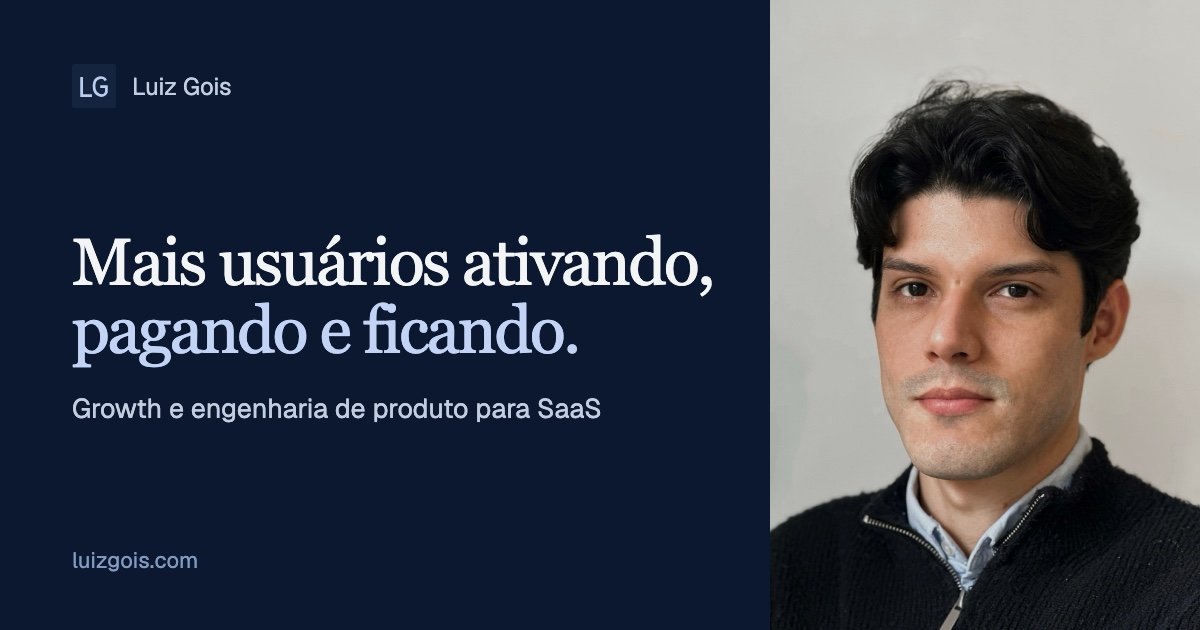
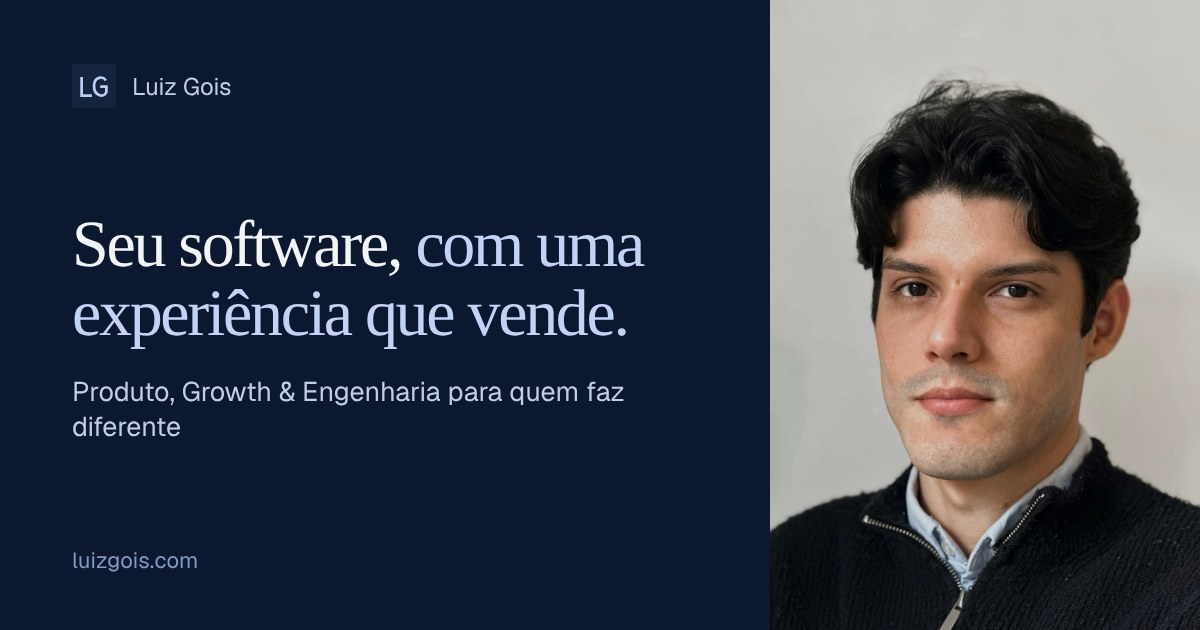
Junta o problema e o que você compra, simplifica as animações do processo, mostra o preço no contato e refaz a imagem de compartilhamento
Claude-Session: https://claude.ai/code/session_012LJywhM1xmxqw45rby5mtb

Changed region(s): [[0.0617, 0.3317, 0.6167, 0.6937], [0.0617, 0.8746, 0.1542, 0.9048], [0.1233, 0.1206, 0.185, 0.1508]]

diff --git a/index.html b/index.html
@@ -87,10 +87,9 @@
         <h2 id="pain-title">Construir ficou fácil. <em>Vender continua difícil.</em></h2>
       </div>
       <div class="wrap pain-copy">
-        <p>Hoje, qualquer pessoa coloca um site ou um software no ar em poucos dias. A IA escreve o código, monta a tela e o texto.</p>
-        <p>Mas quem chega não entende o que você faz. Quem entra não encontra valor. Quem usa uma vez não volta.</p>
+        <p>Qualquer pessoa coloca um software no ar em poucos dias. Mas quem chega não entende, quem entra não encontra valor e quem usa uma vez não volta.</p>
         <p>Aí começam as tentativas: troca o botão, reescreve a página, lança mais uma função. E o número não sai do lugar.</p>
-        <p class="pain-close">O problema quase nunca é a tela. É a experiência entre o primeiro clique e a renovação.</p>
+        <p class="pain-close">Você não está pagando por código. Está comprando o tempo dessas tentativas.</p>
       </div>
     </section>
 
@@ -137,24 +136,7 @@
       </div>
     </section>
 
-    <!-- 4 · O que você compra -->
-    <section class="value section" id="por-que" aria-labelledby="value-title">
-      <div class="wrap center-head">
-        <p class="eyebrow">O que você compra</p>
-        <h2 id="value-title">Você não está pagando por código. <em>Está comprando tempo.</em></h2>
-      </div>
-      <div class="wrap value-wrap">
-        <dl class="value-list">
-          <div><dt>Tempo</dt><dd>Menos tentativas para descobrir o que funciona.</dd></div>
-          <div><dt>Velocidade</dt><dd>Algo no ar cedo, medido, e o próximo passo.</dd></div>
-          <div><dt>Clareza</dt><dd>Você vê como seu cliente usa o produto, com dados, não com palpite.</dd></div>
-          <div><dt>Qualidade</dt><dd>Engenharia de verdade, sem remendo para corrigir depois.</dd></div>
-          <div><dt>Personalidade</dt><dd>Um produto que soa como a sua empresa, não como mais um site feito por IA.</dd></div>
-        </dl>
-      </div>
-    </section>
-
-    <!-- 5 · Como eu trabalho -->
+    <!-- 4 · Como eu trabalho -->
     <section class="process section" id="como-trabalho" aria-labelledby="process-title">
       <div class="wrap center-head">
         <p class="eyebrow">Como eu trabalho</p>
@@ -168,7 +150,7 @@
         <ol class="process-steps">
           <li class="step" data-step="1">
             <figure class="step-visual" data-scene="1" aria-hidden="true">
-              <svg class="scene" viewBox="0 0 520 420" data-motion data-still="0.6"><rect class="mv-soft" x="40" y="40" width="200" height="110" rx="6"/><text class="mv-text" x="60" y="74">produto</text><line class="mv-bar" x1="60" y1="102" x2="190" y2="102"/><line class="mv-bar" x1="60" y1="122" x2="156" y2="122"/><rect class="mv-accent-stroke" x="40" y="40" width="200" height="110" rx="6" opacity="0"><animate attributeName="opacity" values="0;1;1;0;0" keyTimes="0;0.01;0.15;0.20;1" dur="8s" begin="0s" repeatCount="indefinite"/></rect><rect class="mv-soft" x="280" y="40" width="200" height="110" rx="6"/><text class="mv-text" x="300" y="74">operação</text><line class="mv-bar" x1="300" y1="102" x2="430" y2="102"/><line class="mv-bar" x1="300" y1="122" x2="396" y2="122"/><rect class="mv-accent-stroke" x="280" y="40" width="200" height="110" rx="6" opacity="0"><animate attributeName="opacity" values="0;1;1;0;0" keyTimes="0;0.26;0.40;0.45;1" dur="8s" begin="0s" repeatCount="indefinite"/></rect><rect class="mv-soft" x="40" y="250" width="200" height="110" rx="6"/><text class="mv-text" x="60" y="284">objetivos</text><line class="mv-bar" x1="60" y1="312" x2="190" y2="312"/><line class="mv-bar" x1="60" y1="332" x2="156" y2="332"/><rect class="mv-accent-stroke" x="40" y="250" width="200" height="110" rx="6" opacity="0"><animate attributeName="opacity" values="0;1;1;0;0" keyTimes="0;0.51;0.65;0.70;1" dur="8s" begin="0s" repeatCount="indefinite"/></rect><rect class="mv-soft" x="280" y="250" width="200" height="110" rx="6"/><text class="mv-text" x="300" y="284">orçamento</text><line class="mv-bar" x1="300" y1="312" x2="430" y2="312"/><line class="mv-bar" x1="300" y1="332" x2="396" y2="332"/><rect class="mv-accent-stroke" x="280" y="250" width="200" height="110" rx="6" opacity="0"><animate attributeName="opacity" values="0;1;1;0;0" keyTimes="0;0.76;0.90;0.95;1" dur="8s" begin="0s" repeatCount="indefinite"/></rect><rect class="mv-soft" x="200" y="178" width="120" height="44" rx="22"/><circle class="mv-accent" cx="242" cy="200" r="4"><animate attributeName="opacity" values=".25;1;.25" keyTimes="0;.5;1" dur="1.2s" begin="0.0s" repeatCount="indefinite"/></circle><circle class="mv-accent" cx="260" cy="200" r="4"><animate attributeName="opacity" values=".25;1;.25" keyTimes="0;.5;1" dur="1.2s" begin="0.2s" repeatCount="indefinite"/></circle><circle class="mv-accent" cx="278" cy="200" r="4"><animate attributeName="opacity" values=".25;1;.25" keyTimes="0;.5;1" dur="1.2s" begin="0.4s" repeatCount="indefinite"/></circle><text class="mv-muted" x="260" y="244" text-anchor="middle">conversa</text><g class="mv-lens"><circle cx="0" cy="0" r="30"/><line x1="21" y1="21" x2="40" y2="40"/><animateMotion dur="8s" repeatCount="indefinite" path="M140 95 L380 95 L380 305 L140 305 Z" keyPoints="0;0;.2667;.2667;.5;.5;.7667;.7667;1" keyTimes="0;.15;.25;.4;.5;.65;.75;.9;1" calcMode="linear"/></g></svg>
+              <svg class="scene" viewBox="0 0 520 420" data-motion data-still="0.6"><rect class="mv-soft" x="40" y="40" width="200" height="110" rx="6"/><text class="mv-text" x="60" y="74">produto</text><line class="mv-bar" x1="60" y1="102" x2="190" y2="102"/><line class="mv-bar" x1="60" y1="122" x2="156" y2="122"/><rect class="mv-accent-stroke" x="40" y="40" width="200" height="110" rx="6" opacity="0"><animate attributeName="opacity" values="0;1;1;0;0" keyTimes="0;0.01;0.15;0.20;1" dur="8s" begin="0s" repeatCount="indefinite"/></rect><rect class="mv-soft" x="280" y="40" width="200" height="110" rx="6"/><text class="mv-text" x="300" y="74">cliente</text><line class="mv-bar" x1="300" y1="102" x2="430" y2="102"/><line class="mv-bar" x1="300" y1="122" x2="396" y2="122"/><rect class="mv-accent-stroke" x="280" y="40" width="200" height="110" rx="6" opacity="0"><animate attributeName="opacity" values="0;1;1;0;0" keyTimes="0;0.26;0.40;0.45;1" dur="8s" begin="0s" repeatCount="indefinite"/></rect><rect class="mv-soft" x="40" y="250" width="200" height="110" rx="6"/><text class="mv-text" x="60" y="284">meta</text><line class="mv-bar" x1="60" y1="312" x2="190" y2="312"/><line class="mv-bar" x1="60" y1="332" x2="156" y2="332"/><rect class="mv-accent-stroke" x="40" y="250" width="200" height="110" rx="6" opacity="0"><animate attributeName="opacity" values="0;1;1;0;0" keyTimes="0;0.51;0.65;0.70;1" dur="8s" begin="0s" repeatCount="indefinite"/></rect><rect class="mv-soft" x="280" y="250" width="200" height="110" rx="6"/><text class="mv-text" x="300" y="284">orçamento</text><line class="mv-bar" x1="300" y1="312" x2="430" y2="312"/><line class="mv-bar" x1="300" y1="332" x2="396" y2="332"/><rect class="mv-accent-stroke" x="280" y="250" width="200" height="110" rx="6" opacity="0"><animate attributeName="opacity" values="0;1;1;0;0" keyTimes="0;0.76;0.90;0.95;1" dur="8s" begin="0s" repeatCount="indefinite"/></rect><rect class="mv-soft" x="200" y="178" width="120" height="44" rx="22"/><circle class="mv-accent" cx="242" cy="200" r="4"><animate attributeName="opacity" values=".25;1;.25" keyTimes="0;.5;1" dur="1.2s" begin="0.0s" repeatCount="indefinite"/></circle><circle class="mv-accent" cx="260" cy="200" r="4"><animate attributeName="opacity" values=".25;1;.25" keyTimes="0;.5;1" dur="1.2s" begin="0.2s" repeatCount="indefinite"/></circle><circle class="mv-accent" cx="278" cy="200" r="4"><animate attributeName="opacity" values=".25;1;.25" keyTimes="0;.5;1" dur="1.2s" begin="0.4s" repeatCount="indefinite"/></circle><text class="mv-muted" x="260" y="244" text-anchor="middle">conversa</text><g class="mv-lens"><circle cx="0" cy="0" r="30"/><line x1="21" y1="21" x2="40" y2="40"/><animateMotion dur="8s" repeatCount="indefinite" path="M140 95 L380 95 L380 305 L140 305 Z" keyPoints="0;0;.2667;.2667;.5;.5;.7667;.7667;1" keyTimes="0;.15;.25;.4;.5;.65;.75;.9;1" calcMode="linear"/></g></svg>
             </figure>
             <h3>Uma conversa sobre o seu produto</h3>
             <p>Leio o que você me contou, estudo sua empresa e conversamos, sem custo, sobre onde você quer chegar.</p>
@@ -182,14 +164,14 @@
           </li>
           <li class="step" data-step="3">
             <figure class="step-visual" data-scene="3" aria-hidden="true">
-              <svg class="scene" viewBox="0 0 520 420" data-motion data-still="4"><path id="bw1" class="mv-line" d="M260 88 H 330"/><path id="bw2" class="mv-line" d="M405 120 V 238"/><path id="bw3" class="mv-line" d="M330 106 C 260 106 210 300 146 314"/><path id="bw4" class="mv-line" d="M405 120 C 405 250 330 344 314 344"/><text class="mv-muted" x="40" y="28">interface</text><rect class="mv-soft" x="40" y="40" width="220" height="160" rx="6"/><line class="mv-line" x1="40" y1="64" x2="260" y2="64"/><circle class="mv-col" cx="54" cy="52" r="3"/><circle class="mv-col" cx="66" cy="52" r="3"/><circle class="mv-col" cx="78" cy="52" r="3"/><rect class="mv-col" x="58" y="80" width="184" height="40" rx="4" opacity="0"><animate attributeName="opacity" values="0;0;1;1;0" keyTimes="0;0.05;0.13;.92;1" dur="7s" begin="0s" repeatCount="indefinite"/></rect><rect class="mv-col" x="58" y="130" width="86" height="36" rx="4" opacity="0"><animate attributeName="opacity" values="0;0;1;1;0" keyTimes="0;0.15;0.23;.92;1" dur="7s" begin="0s" repeatCount="indefinite"/></rect><rect class="mv-col" x="156" y="130" width="86" height="36" rx="4" opacity="0"><animate attributeName="opacity" values="0;0;1;1;0" keyTimes="0;0.25;0.33;.92;1" dur="7s" begin="0s" repeatCount="indefinite"/></rect><rect class="mv-accent" x="58" y="176" width="70" height="14" rx="7" opacity="0"><animate attributeName="opacity" values="0;0;1;1;0" keyTimes="0;0.35;0.43;.92;1" dur="7s" begin="0s" repeatCount="indefinite"/></rect><rect class="mv-soft" x="330" y="56" width="150" height="64" rx="6"/><text class="mv-text" x="405" y="94" text-anchor="middle">serviço</text><ellipse class="mv-soft" cx="405" cy="250" rx="60" ry="12"/><path class="mv-soft" d="M345 250 V 306 A 60 12 0 0 0 465 306 V 250"/><text class="mv-text" x="405" y="292" text-anchor="middle">dados</text><line class="mv-line" x1="130" y1="320" x2="70" y2="284"/><circle class="mv-soft" cx="70" cy="284" r="10"/><line class="mv-line" x1="130" y1="320" x2="70" y2="350"/><circle class="mv-soft" cx="70" cy="350" r="10"/><line class="mv-line" x1="130" y1="320" x2="196" y2="372"/><circle class="mv-soft" cx="196" cy="372" r="10"/><circle class="mv-soft" cx="130" cy="320" r="16"/><text class="mv-muted" x="130" y="410" text-anchor="middle">integrações</text><rect class="mv-pill" x="250" y="330" width="64" height="28" rx="14"/><text class="mv-text" x="282" y="349" text-anchor="middle">IA</text><circle class="mv-accent" r="3.5"><animateMotion dur="1.6s" begin="0s" repeatCount="indefinite"><mpath href="#bw1"/></animateMotion></circle><circle class="mv-accent" r="3.5"><animateMotion dur="1.6s" begin="0.8s" repeatCount="indefinite" keyPoints="1;0" keyTimes="0;1" calcMode="linear"><mpath href="#bw1"/></animateMotion></circle><circle class="mv-accent" r="3.5"><animateMotion dur="1.8s" begin="0.3s" repeatCount="indefinite"><mpath href="#bw2"/></animateMotion></circle><circle class="mv-accent" r="3.5"><animateMotion dur="2.4s" begin="0.5s" repeatCount="indefinite"><mpath href="#bw3"/></animateMotion></circle><circle class="mv-accent" r="3.5"><animateMotion dur="2.4s" begin="1.6s" repeatCount="indefinite" keyPoints="1;0" keyTimes="0;1" calcMode="linear"><mpath href="#bw3"/></animateMotion></circle><circle class="mv-accent" r="3.5"><animateMotion dur="2.2s" begin="1s" repeatCount="indefinite"><mpath href="#bw4"/></animateMotion></circle></svg>
+              <svg class="scene" viewBox="0 0 520 420" data-motion data-still="4"><path id="bw1" class="mv-line" d="M260 88 H 330"/><path id="bw2" class="mv-line" d="M405 120 V 238"/><path id="bw3" class="mv-line" d="M330 106 C 260 106 210 300 146 314"/><path id="bw4" class="mv-line" d="M405 120 C 405 250 330 344 314 344"/><text class="mv-muted" x="40" y="28">seu produto</text><rect class="mv-soft" x="40" y="40" width="220" height="160" rx="6"/><line class="mv-line" x1="40" y1="64" x2="260" y2="64"/><circle class="mv-col" cx="54" cy="52" r="3"/><circle class="mv-col" cx="66" cy="52" r="3"/><circle class="mv-col" cx="78" cy="52" r="3"/><rect class="mv-col" x="58" y="80" width="184" height="40" rx="4" opacity="0"><animate attributeName="opacity" values="0;0;1;1;0" keyTimes="0;0.05;0.13;.92;1" dur="7s" begin="0s" repeatCount="indefinite"/></rect><rect class="mv-col" x="58" y="130" width="86" height="36" rx="4" opacity="0"><animate attributeName="opacity" values="0;0;1;1;0" keyTimes="0;0.15;0.23;.92;1" dur="7s" begin="0s" repeatCount="indefinite"/></rect><rect class="mv-col" x="156" y="130" width="86" height="36" rx="4" opacity="0"><animate attributeName="opacity" values="0;0;1;1;0" keyTimes="0;0.25;0.33;.92;1" dur="7s" begin="0s" repeatCount="indefinite"/></rect><rect class="mv-accent" x="58" y="176" width="70" height="14" rx="7" opacity="0"><animate attributeName="opacity" values="0;0;1;1;0" keyTimes="0;0.35;0.43;.92;1" dur="7s" begin="0s" repeatCount="indefinite"/></rect><rect class="mv-soft" x="330" y="56" width="150" height="64" rx="6"/><ellipse class="mv-soft" cx="405" cy="250" rx="60" ry="12"/><path class="mv-soft" d="M345 250 V 306 A 60 12 0 0 0 465 306 V 250"/><line class="mv-line" x1="130" y1="320" x2="70" y2="284"/><circle class="mv-soft" cx="70" cy="284" r="10"/><line class="mv-line" x1="130" y1="320" x2="70" y2="350"/><circle class="mv-soft" cx="70" cy="350" r="10"/><line class="mv-line" x1="130" y1="320" x2="196" y2="372"/><circle class="mv-soft" cx="196" cy="372" r="10"/><circle class="mv-soft" cx="130" cy="320" r="16"/><rect class="mv-pill" x="250" y="330" width="64" height="28" rx="14"/><text class="mv-text" x="282" y="349" text-anchor="middle">IA</text><circle class="mv-accent" r="3.5"><animateMotion dur="1.6s" begin="0s" repeatCount="indefinite"><mpath href="#bw1"/></animateMotion></circle><circle class="mv-accent" r="3.5"><animateMotion dur="1.6s" begin="0.8s" repeatCount="indefinite" keyPoints="1;0" keyTimes="0;1" calcMode="linear"><mpath href="#bw1"/></animateMotion></circle><circle class="mv-accent" r="3.5"><animateMotion dur="1.8s" begin="0.3s" repeatCount="indefinite"><mpath href="#bw2"/></animateMotion></circle><circle class="mv-accent" r="3.5"><animateMotion dur="2.4s" begin="0.5s" repeatCount="indefinite"><mpath href="#bw3"/></animateMotion></circle><circle class="mv-accent" r="3.5"><animateMotion dur="2.4s" begin="1.6s" repeatCount="indefinite" keyPoints="1;0" keyTimes="0;1" calcMode="linear"><mpath href="#bw3"/></animateMotion></circle><circle class="mv-accent" r="3.5"><animateMotion dur="2.2s" begin="1s" repeatCount="indefinite"><mpath href="#bw4"/></animateMotion></circle></svg>
             </figure>
             <h3>Eu construo</h3>
             <p>Desenho e coloco a mudança no ar, com engenharia, dados e IA quando fizer sentido.</p>
           </li>
           <li class="step" data-step="4">
             <figure class="step-visual" data-scene="4" aria-hidden="true">
-              <svg class="scene" viewBox="0 0 520 420" data-motion data-still="2"><rect class="mv-pill" x="40" y="20" width="92" height="30" rx="15"/><circle class="mv-accent-stroke" cx="60" cy="35" r="5" opacity="0"><animate attributeName="r" values="5;14;14" keyTimes="0;.6;1" dur="1.6s" begin="0s" repeatCount="indefinite"/><animate attributeName="opacity" values=".8;0;0" keyTimes="0;.6;1" dur="1.6s" begin="0s" repeatCount="indefinite"/></circle><circle class="mv-accent" cx="60" cy="35" r="5"/><text class="mv-text" x="74" y="40">no ar</text><defs><clipPath id="feed-clip"><rect x="40" y="66" width="440" height="170"/></clipPath></defs><g clip-path="url(#feed-clip)"><g><g transform="translate(0 70)"><circle class="mv-accent" cx="52" cy="20" r="4"/><text class="mv-text" x="70" y="25">cadastro feito</text><text class="mv-muted" x="470" y="25" text-anchor="end">medido</text></g><g transform="translate(0 110)"><circle class="mv-accent" cx="52" cy="20" r="4"/><text class="mv-text" x="70" y="25">primeiro passo</text><text class="mv-muted" x="470" y="25" text-anchor="end">medido</text></g><g transform="translate(0 150)"><circle class="mv-accent" cx="52" cy="20" r="4"/><text class="mv-text" x="70" y="25">compra aprovada</text><text class="mv-muted" x="470" y="25" text-anchor="end">medido</text></g><g transform="translate(0 190)"><circle class="mv-accent" cx="52" cy="20" r="4"/><text class="mv-text" x="70" y="25">contato salvo</text><text class="mv-muted" x="470" y="25" text-anchor="end">medido</text></g><g transform="translate(0 230)"><circle class="mv-accent" cx="52" cy="20" r="4"/><text class="mv-text" x="70" y="25">indicação aberta</text><text class="mv-muted" x="470" y="25" text-anchor="end">medido</text></g><g transform="translate(0 270)"><circle class="mv-accent" cx="52" cy="20" r="4"/><text class="mv-text" x="70" y="25">cadastro feito</text><text class="mv-muted" x="470" y="25" text-anchor="end">medido</text></g><g transform="translate(0 310)"><circle class="mv-accent" cx="52" cy="20" r="4"/><text class="mv-text" x="70" y="25">primeiro passo</text><text class="mv-muted" x="470" y="25" text-anchor="end">medido</text></g><g transform="translate(0 350)"><circle class="mv-accent" cx="52" cy="20" r="4"/><text class="mv-text" x="70" y="25">compra aprovada</text><text class="mv-muted" x="470" y="25" text-anchor="end">medido</text></g><g transform="translate(0 390)"><circle class="mv-accent" cx="52" cy="20" r="4"/><text class="mv-text" x="70" y="25">contato salvo</text><text class="mv-muted" x="470" y="25" text-anchor="end">medido</text></g><g transform="translate(0 430)"><circle class="mv-accent" cx="52" cy="20" r="4"/><text class="mv-text" x="70" y="25">indicação aberta</text><text class="mv-muted" x="470" y="25" text-anchor="end">medido</text></g><animateTransform attributeName="transform" type="translate" values="0 0;0 -200" dur="10s" repeatCount="indefinite"/></g></g><line class="mv-line" x1="40" y1="380" x2="400" y2="380"/><line class="mv-accent-dash" x1="160" y1="270" x2="160" y2="380"/><text class="mv-muted" x="168" y="284">mudança</text><path class="mv-strong" pathLength="1" stroke-dasharray="1" d="M40 362 L70 360 L100 364 L130 359 L160 360 L190 350 L220 344 L250 332 L280 328 L310 316 L340 310 L380 298"><animate attributeName="stroke-dashoffset" values="1;0;0;1" keyTimes="0;.5;.92;1" dur="6s" repeatCount="indefinite"/></path><g><path class="mv-accent-line" d="M455 300 A 22 22 0 1 1 433 322"/><path class="mv-accent-line" d="M426 315 L433 323 L441 316"/><animateTransform attributeName="transform" type="rotate" values="0 455 322;360 455 322" dur="6s" repeatCount="indefinite"/></g><text class="mv-muted" x="455" y="370" text-anchor="middle">novo ciclo</text></svg>
+              <svg class="scene" viewBox="0 0 520 420" data-motion data-still="2"><rect class="mv-pill" x="40" y="20" width="124" height="30" rx="15"/><circle class="mv-accent-stroke" cx="60" cy="35" r="5" opacity="0"><animate attributeName="r" values="5;14;14" keyTimes="0;.6;1" dur="1.6s" begin="0s" repeatCount="indefinite"/><animate attributeName="opacity" values=".8;0;0" keyTimes="0;.6;1" dur="1.6s" begin="0s" repeatCount="indefinite"/></circle><circle class="mv-accent" cx="60" cy="35" r="5"/><text class="mv-text" x="74" y="40">resultado</text><line class="mv-line" x1="40" y1="380" x2="400" y2="380"/><line class="mv-accent-dash" x1="160" y1="270" x2="160" y2="380"/><text class="mv-muted" x="168" y="284">mudança no ar</text><path class="mv-strong" pathLength="1" stroke-dasharray="1" d="M40 362 L70 360 L100 364 L130 359 L160 360 L190 350 L220 344 L250 332 L280 328 L310 316 L340 310 L380 298"><animate attributeName="stroke-dashoffset" values="1;0;0;1" keyTimes="0;.5;.92;1" dur="6s" repeatCount="indefinite"/></path><g><path class="mv-accent-line" d="M455 300 A 22 22 0 1 1 433 322"/><path class="mv-accent-line" d="M426 315 L433 323 L441 316"/><animateTransform attributeName="transform" type="rotate" values="0 455 322;360 455 322" dur="6s" repeatCount="indefinite"/></g><text class="mv-muted" x="455" y="370" text-anchor="middle">novo ciclo</text></svg>
             </figure>
             <h3>Medimos e seguimos</h3>
             <p>Vejo o efeito no seu resultado. Se precisar, seguimos para o próximo passo.</p>
@@ -199,7 +181,7 @@
       </div>
     </section>
 
-    <!-- 6 · Quem está por trás -->
+    <!-- 5 · Quem está por trás -->
     <section class="team section-screen" id="sobre" aria-labelledby="team-title">
       <div class="wrap center-head">
         <h2 id="team-title">Quem está por trás.</h2>
@@ -214,7 +196,7 @@
       </div>
     </section>
 
-    <!-- 7 · Perguntas frequentes -->
+    <!-- 6 · Perguntas frequentes -->
     <section class="faq section" id="perguntas" aria-labelledby="faq-title">
       <div class="wrap center-head">
         <p class="eyebrow">Antes da primeira conversa</p>
@@ -246,11 +228,11 @@
       </div>
     </section>
 
-    <!-- 8 · Formulário -->
+    <!-- 7 · Formulário -->
     <section class="contact section" id="contato" aria-labelledby="contact-title">
       <div class="wrap center-head">
         <h2 id="contact-title">Seu próximo passo é aqui.</h2>
-        <p class="contact-lead">Conte o que está acontecendo. Respondo em até 1 dia útil.</p>
+        <p class="contact-lead">Conte o que está acontecendo. Respondo em até 1 dia útil.<br>Projetos a partir de R$&nbsp;10&nbsp;mil. A primeira conversa não tem custo.</p>
       </div>
 
       <div class="wrap form-wrap">
@@ -288,7 +270,7 @@
                 </select>
               </label>
               <label class="field">O que está acontecendo? <span class="req" aria-hidden="true">*</span>
-                <textarea name="challenge" required minlength="20" maxlength="3000" rows="5" placeholder="Ex.: estamos convertendo em assinaturas, mas nosso churn vem crescendo mensalmente..."></textarea>
+                <textarea name="challenge" required minlength="20" maxlength="3000" rows="5" placeholder="Ex.: muita gente se cadastra, mas pouca gente continua usando depois do primeiro mês..."></textarea>
               </label>
 
               <label class="check whatsapp-toggle"><input type="checkbox" name="preferWhatsapp" aria-controls="whatsapp-field" aria-expanded="false"><span>Prefiro receber a resposta por WhatsApp</span></label>
@@ -325,7 +307,7 @@
     </section>
   </main>
 
-  <!-- 9 · Footer -->
+  <!-- 8 · Footer -->
   <footer class="site-footer" id="rodape">
     <div class="wrap footer-top">
       <p class="footer-statement">O bom pode ser <em>melhor.</em></p>

diff --git a/src/styles/main.css b/src/styles/main.css
@@ -151,15 +151,10 @@ h1, h2, h3, .hero h1 em, h2 em { text-wrap: balance; }
 @keyframes pulse { 0% { transform: scale(1); opacity: .7; } 80%, 100% { transform: scale(2.6); opacity: 0; } }
 
 /* 2 · Minha expertise — screen-height rail. */
-.pain, .value { background: var(--white); color: var(--ink); }
-.pain-copy, .value-wrap { max-width: calc(760px + 2 * var(--gutter)); display: grid; gap: 20px; }
+.pain { background: var(--white); color: var(--ink); }
+.pain-copy { max-width: calc(760px + 2 * var(--gutter)); display: grid; gap: 20px; }
 .pain-copy p { font-size: clamp(17px, 1.5vw, 21px); line-height: 1.55; color: var(--muted); }
 .pain-copy .pain-close { margin-top: 12px; font-family: var(--display); font-size: clamp(24px, 2.4vw, 34px); line-height: 1.2; letter-spacing: -.02em; color: var(--ink); }
-.value-list { border-bottom: 1px solid var(--line); }
-.value-list > div { display: grid; gap: 8px; padding: 22px 0; border-top: 1px solid var(--line); }
-.value-list dt { font-family: var(--display); font-size: clamp(20px, 1.8vw, 26px); line-height: 1.2; letter-spacing: -.02em; }
-.value-list dd { font-size: 16px; line-height: 1.6; color: var(--muted); }
-@media (min-width: 900px) { .value-list > div { grid-template-columns: 220px 1fr; gap: 24px; align-items: baseline; } }
 .where { background: var(--paper); }
 .rail { position: relative; flex: 1; display: flex; min-height: 0; }
 .rail-track {

diff --git a/scripts/social-card.html b/scripts/social-card.html
@@ -18,7 +18,7 @@ h1 em { font-style: normal; color: #c2d3f5; }
 </style></head><body>
 <div class="copy">
   <div class="brand"><svg viewBox="0 0 64 64"><rect width="64" height="64" rx="3" fill="#14243f"/><path d="M14 19v27h15M49 24c-3-7-17-6-17 8s14 18 18 9V33h-9" fill="none" stroke="#bbcdf0" stroke-width="4"/></svg>Luiz Gois</div>
-  <div><h1>Mais usuários ativando, <em>pagando e ficando.</em></h1><p class="sub">Growth e engenharia de produto para SaaS</p></div>
+  <div><h1>Seu software, <em>com uma experiência que vende.</em></h1><p class="sub">Produto, Growth &amp; Engenharia para quem faz diferente</p></div>
   <p class="url">luizgois.com</p>
 </div>
 <div class="photo"></div>

diff --git a/build/seo.ts b/build/seo.ts
@@ -28,7 +28,7 @@ const services = [
 
 // Real pixel sizes; keep in sync if the files change. The 1200×630 card is for link previews;
 // the portrait stays as the Person image, where Google expects a photo of the person.
-const ogImage = { path: 'assets/luiz-gois-social.jpg', width: 1200, height: 630, type: 'image/jpeg', alt: 'Luiz Gois: Produto, Growth & Engenharia para quem faz diferente.' };
+const ogImage = { path: 'assets/luiz-gois-social.jpg', width: 1200, height: 630, type: 'image/jpeg', alt: 'Luiz Gois: Seu software, com uma experiência que vende.' };
 const portrait = 'assets/luiz-gois-og.jpg';
 
 export function seoPlugin(siteUrl?: string): Plugin {
